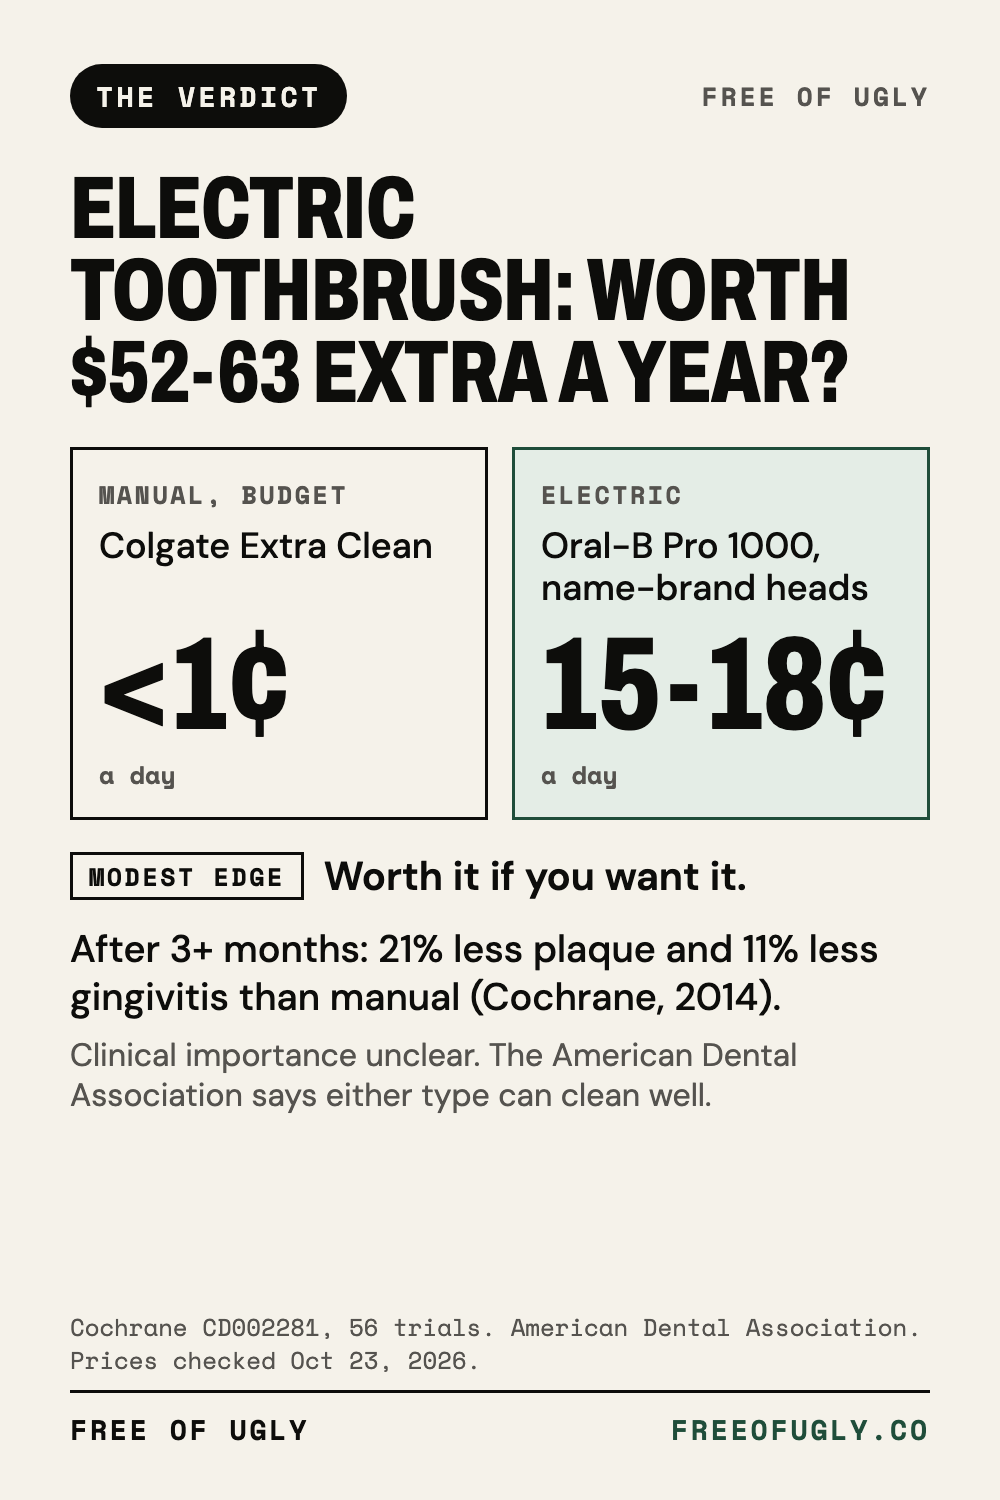
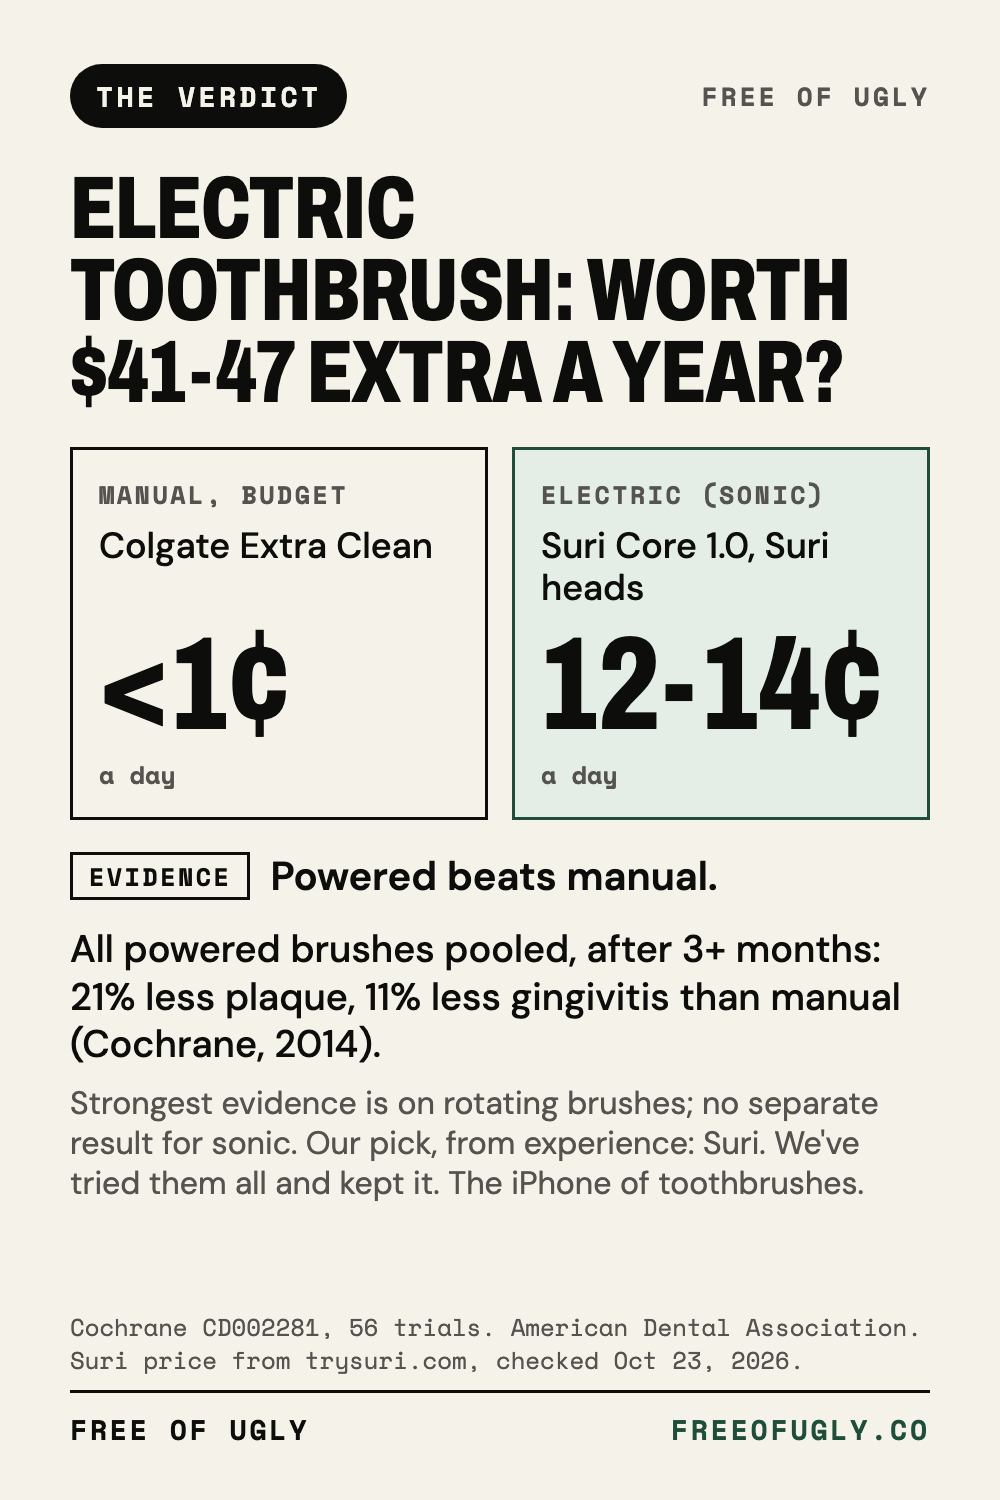
Toothbrush: Suri is our pick; evidence stated first
David 10-23: no Oral-B; Suri, from experience. Cochrane's strongest evidence is on rotating brushes, no separate sonic result, and the page says so.

Claude-Session: https://claude.ai/code/session_01F3MDmUyiEeadfmYawYHwjW

diff --git a/shelf/electric-toothbrush-worth-it.html b/shelf/electric-toothbrush-worth-it.html
@@ -1,4 +1,4 @@
-<!DOCTYPE html><html lang="en"><head><meta charset="utf-8"><meta name="viewport" content="width=device-width,initial-scale=1"><title>Electric toothbrush vs manual: worth about $63 a year? | Free of Ugly</title><meta name="description" content="A Cochrane review of 56 trials found powered brushes left 21% less plaque and 11% less gingivitis than manual after 3+ months. It costs about 15 to 18 cents a day against 1 cent for manual. Prices checked Oct 23, 2026."><link rel="canonical" href="https://freeofugly.co/shelf/electric-toothbrush-worth-it"><meta property="og:title" content="Electric toothbrush vs manual: worth about $63 a year?"><meta property="og:description" content="A Cochrane review of 56 trials found powered brushes left 21% less plaque and 11% less gingivitis than manual after 3+ months. It costs about 15 to 18 cents a day against 1 cent for manual. Prices checked Oct 23, 2026."><meta property="og:type" content="article"><meta property="og:image" content="https://freeofugly.co/shelf/img/electric-toothbrush-worth-it.png"><link rel="stylesheet" href="https://fonts.googleapis.com/css2?family=Archivo:wdth,wght@62..125,100..900&family=DM+Sans:wght@400;500;600&family=Space+Mono:wght@400;700&display=swap"><style>
+<!DOCTYPE html><html lang="en"><head><meta charset="utf-8"><meta name="viewport" content="width=device-width,initial-scale=1"><title>Electric toothbrush vs manual: worth an extra $41 to $47 a year? | Free of Ugly</title><meta name="description" content="A Cochrane review that included 56 trials found powered brushes left 21% less plaque and 11% less gingivitis than manual after more than 3 months. The largest body of its evidence is on rotating brushes; it reports no separate result for sonic ones. Our pick is Suri, a sonic brush, about 12 to 14 cents a day against under 1 cent for manual. Prices checked Oct 23, 2026."><link rel="canonical" href="https://freeofugly.co/shelf/electric-toothbrush-worth-it"><meta property="og:title" content="Electric toothbrush vs manual: worth an extra $41 to $47 a year?"><meta property="og:description" content="A Cochrane review that included 56 trials found powered brushes left 21% less plaque and 11% less gingivitis than manual after more than 3 months. The largest body of its evidence is on rotating brushes; it reports no separate result for sonic ones. Our pick is Suri, a sonic brush, about 12 to 14 cents a day against under 1 cent for manual. Prices checked Oct 23, 2026."><meta property="og:type" content="article"><meta property="og:image" content="https://freeofugly.co/shelf/img/electric-toothbrush-worth-it.png"><link rel="stylesheet" href="https://fonts.googleapis.com/css2?family=Archivo:wdth,wght@62..125,100..900&family=DM+Sans:wght@400;500;600&family=Space+Mono:wght@400;700&display=swap"><style>
 :root{--ink:#0D0D0B;--cream:#F5F2EA;--green:#1F4D3A;--grey:#55534F;--line:#0D0D0B;--tint:#E4EDE6;--red:#D93A2E}
 *{box-sizing:border-box;margin:0;padding:0}
 body{background:var(--cream);color:var(--ink);font:400 18px/1.6 'DM Sans',system-ui,sans-serif;-webkit-font-smoothing:antialiased}
@@ -27,4 +27,4 @@ th{background:var(--ink);color:var(--cream);font:700 12px 'Space Mono',monospace
 .list a.item:hover{background:var(--tint)}
 .list .f{font:700 12px 'Space Mono',monospace;letter-spacing:.1em;text-transform:uppercase;color:var(--green)}
 .list .t{font:600 20px/1.25 'DM Sans',sans-serif;margin-top:4px}
-</style></head><body><div class="wrap"><div class="bar"><a href="/">Free of Ugly</a><a href="/shelf/">The Shelf</a></div><span class="tag">The Verdict</span><h1>Electric toothbrush vs manual: worth about $63 a year?</h1><div class="verdict"><b>Short answer</b>Worth it, narrowly. Powered brushes beat manual ones on plaque and gum inflammation in the best evidence we found. The size of the benefit for your actual teeth is unclear, and a manual brush used well also works.</div><img class="pin" src="/shelf/img/electric-toothbrush-worth-it.png" alt="Cream card comparing a manual toothbrush at about 1 cent a day with an electric toothbrush at about 15 to 18 cents a day. Cochrane 2014: 21 percent less plaque, 11 percent less gingivitis after 3 months. Verdict: modest edge." width="380" height="570"><h2>The full answer</h2><p>The Cochrane review of powered versus manual brushing pooled 56 trials with 5,068 randomised people. Compared with manual brushing, powered brushes reduced plaque by about 11% at 1 to 3 months and about 21% after 3 months. Gingivitis (gum inflammation) fell by about 6% and about 11%. The review rates the evidence as moderate certainty.</p><p>The same review says plainly that &quot;the clinical importance of these findings remains unclear.&quot; The American Dental Association says both types of toothbrush can clean teeth effectively and thoroughly, and that choosing between them is a wash. So the honest framing is a measurable but modest edge, for roughly 14 to 17 cents a day more ($52 to $63 a year).</p><p>Free of Ugly&#x27;s opinion, not from the review: it is likelier to be worth it if you brush quickly or inconsistently, and easier to skip if your technique is already good.</p><h2>What this does not tell you</h2><ul><li>The review&#x27;s brush-type subgroups did not explain the differences between trials. The largest group (27 trials) tested rotation-oscillation heads. We priced an Oral-B model as one example; a different powered brush may perform differently and cost differently.</li><li>The review we read was published in 2014, with searches to January 2014. We did not check whether a later update exists.</li><li>Our cost model uses assumptions we chose, listed in the math below. Change them and the answer moves a little.</li></ul><h2>The math</h2><div class="tw"><table><tr><th>Line</th><th>Calculation</th><th>Per year</th></tr><tr><td>Electric handle: Oral-B Pro 1000, $49.99 (Target)</td><td>$49.99 over an assumed 3-year life</td><td>$16.66</td></tr><tr><td>Electric heads: Oral-B CrossAction, 2-pack $24.99 = $12.495 each (Target)</td><td>3 to 4 heads a year (replace every 3 to 4 months, American Dental Association)</td><td>$37.49 to $49.98</td></tr><tr><td>Electric total</td><td></td><td>$54.15 to $66.64  (15 to 18¢ a day)</td></tr><tr><td>Manual: Colgate Extra Clean, 6-pack $4.99 = $0.83 each (Target)</td><td>3 to 4 brushes a year</td><td>$2.50 to $3.33  (under 1¢ a day)</td></tr><tr><td>Difference</td><td></td><td>$51.65 to $63.31  (14 to 17¢ a day)</td></tr></table></div><p class="note">The American Dental Association&#x27;s three-to-four-month replacement advice is written for toothbrushes; we applied it to brush heads. A 3-year handle life is our assumption, and the handle ships with a first head, so year one is slightly overstated. We priced name-brand heads and the cheapest manual brush on the page; cheaper third-party heads exist but we did not price them.</p><h2>Sources</h2><ul class="src"><li><a href="https://www.cochrane.org/evidence/CD002281_powered-versus-manual-toothbrushing-oral-health" rel="noopener">Cochrane: Powered versus manual toothbrushing for oral health (CD002281), Yaacob et al. 2014</a><span class="n">56 trials, 5,068 participants; plaque and gingivitis figures; moderate certainty; clinical importance unclear. Accessed 2026-10-23.</span></li><li><a href="https://pubmed.ncbi.nlm.nih.gov/24934383/" rel="noopener">Yaacob et al. 2014, Cochrane Database Syst Rev (PubMed record)</a><span class="n">Same review, PubMed listing. Accessed 2026-10-23.</span></li><li><a href="https://www.mouthhealthy.org/all-topics-a-z/toothbrushes" rel="noopener">American Dental Association, MouthHealthy: Toothbrushes</a><span class="n">Replace every three to four months; manual and powered both clean effectively. Accessed 2026-10-23.</span></li><li><a href="https://www.target.com/s?searchTerm=oral-b+pro+1000+rechargeable+electric+toothbrush" rel="noopener">Target: Oral-B Pro 1000 and CrossAction heads, Colgate Extra Clean (search results)</a><span class="n">Prices read from Target search pages on Oct 23, 2026; store pricing can differ. Accessed 2026-10-23.</span></li></ul><div class="fine"><p>Prices checked 2026-10-23. Prices move.</p><p>Some links earn us a commission. We link the winner either way.</p><p>Information, not medical advice. If something here applies to you, ask a doctor or dermatologist.</p><p>Free of Ugly: science over grift. If it works we say why. If it does not we say that too.</p></div><p style="margin-top:20px"><a href="/shelf/">The Shelf: sources for every post</a> &middot; <a href="/">Free of Ugly home</a></p></div></body></html>
+</style></head><body><div class="wrap"><div class="bar"><a href="/">Free of Ugly</a><a href="/shelf/">The Shelf</a></div><span class="tag">The Verdict</span><h1>Electric toothbrush vs manual: worth an extra $41 to $47 a year?</h1><div class="verdict"><b>Short answer</b>Worth it, narrowly. Powered brushes as a group beat manual ones on plaque and gum inflammation, but the largest body of evidence is on rotating brushes, not the sonic Suri we use. The size of the benefit for your actual teeth is unclear, and a manual brush used well also works.</div><img class="pin" src="/shelf/img/electric-toothbrush-worth-it.png" alt="Cream card comparing a manual toothbrush at under 1 cent a day with a Suri sonic electric toothbrush at about 12 to 14 cents a day. Cochrane 2014, all powered brushes pooled: 21 percent less plaque, 11 percent less gingivitis after 3 months. The largest body of evidence is on rotating brushes. Our pick: Suri, from experience, not evidence." width="380" height="570"><h2>What the evidence says</h2><p>The Cochrane review of powered versus manual brushing included 56 trials; 51 trials with 4,624 people provided data. Compared with manual brushing, powered brushes as a group reduced plaque by about 11% at 1 to 3 months and about 21% after 3 months. Gingivitis (gum inflammation) fell by about 6% and about 11%. The review rates the evidence as moderate quality.</p><p>The same review says plainly that &quot;the clinical importance of these findings remains unclear.&quot; The American Dental Association says both types of toothbrush can clean teeth effectively and thoroughly. So the honest framing is a measurable but modest edge.</p><p>By brush type, the review&#x27;s abstract says: &quot;The greatest body of evidence was for rotation oscillation brushes which demonstrated a statistically significant reduction in plaque and gingivitis at both time points.&quot; It lists 27 trials of rotating brushes and 10 of side-to-side brushes, but reports no separate result for side-to-side brushes. Whether sonic designs fall in that group is not stated in the abstract. So the pooled result for all powered brushes is positive, and the clearest by-type result is for rotating brushes. We cannot say from the review that sonic brushes like Suri match them.</p><h2>Our pick: Suri</h2><p>This part is experience, not evidence. We&#x27;ve tried them all and replaced them three or four times before moving to a sonic brush with Suri. Suri is the one we kept: it feels like the iPhone of toothbrushes, a very high-end product.</p><p>Design facts, from Suri&#x27;s own site: the replacement heads are made from cornstarch with bristles made from castor oil, and used heads can be recycled free with a prepaid mailer. Neither was tested in the review.</p><h2>What this does not tell you</h2><ul><li>The review does not test any specific brand, so we cannot say how Suri performs against manual in particular.</li><li>The review we read was published in 2014, with searches to January 2014. We did not check whether a later update exists.</li><li>Our cost model uses assumptions we chose, listed in the math below. Change them and the answer moves a little.</li></ul><h2>The math</h2><div class="tw"><table><tr><th>Line</th><th>Calculation</th><th>Per year</th></tr><tr><td>Electric handle: Suri Core 1.0, $75 (trysuri.com)</td><td>$75 over an assumed 3-year life</td><td>$25.00</td></tr><tr><td>Electric heads: Suri replacement heads, 3-pack $18.99 = $6.33 each (trysuri.com)</td><td>3 to 4 heads a year (Suri&#x27;s site: dentists recommend changing heads every 3 months; American Dental Association: every 3 to 4 months)</td><td>$18.99 to $25.32</td></tr><tr><td>Electric total</td><td></td><td>$43.99 to $50.32  (12 to 14¢ a day)</td></tr><tr><td>Manual: Colgate Extra Clean, 6-pack $4.99 = $0.83 each (Target)</td><td>3 to 4 brushes a year</td><td>$2.50 to $3.33  (under 1¢ a day)</td></tr><tr><td>Difference</td><td></td><td>$41.49 to $46.99  (11 to 13¢ a day)</td></tr></table></div><p class="note">Prices checked Oct 23, 2026. The Core 1.0 is Suri&#x27;s cheaper brush (from $75 at trysuri.com); the Pro 2.0 costs more (about $135 at Target), which would raise the totals. A 3-year handle life is our assumption. We priced Suri&#x27;s own heads and the cheapest manual brush on the page. Subscription pricing on Suri&#x27;s site can lower the head cost.</p><h2>Sources</h2><ul class="src"><li><a href="https://www.cochrane.org/evidence/CD002281_powered-versus-manual-toothbrushing-oral-health" rel="noopener">Cochrane: Powered versus manual toothbrushing for oral health (CD002281), Yaacob et al. 2014</a><span class="n">56 trials; plaque and gingivitis figures; moderate quality evidence; greatest body of evidence for rotation oscillation brushes; clinical importance unclear. Accessed 2026-10-23.</span></li><li><a href="https://pubmed.ncbi.nlm.nih.gov/24934383/" rel="noopener">Yaacob et al. 2014, Cochrane Database Syst Rev (PubMed record)</a><span class="n">Same review, PubMed listing. Accessed 2026-10-23.</span></li><li><a href="https://www.mouthhealthy.org/all-topics-a-z/toothbrushes" rel="noopener">American Dental Association, MouthHealthy: Toothbrushes</a><span class="n">Replace every three to four months; manual and powered both clean effectively. Accessed 2026-10-23.</span></li><li><a href="https://www.trysuri.com/en-us/products/suri-sonic-replacement-toothbrush-heads" rel="noopener">Suri: Core 1.0 sonic toothbrush and replacement heads (trysuri.com), plus Target listings for Colgate Extra Clean</a><span class="n">Core from $75; 3-pack heads $18.99; cornstarch and castor-oil heads; free recycling by prepaid mailer; read Oct 23, 2026. Store pricing can differ. Accessed 2026-10-23.</span></li></ul><div class="fine"><p>Prices checked 2026-10-23. Prices move.</p><p>Some links earn us a commission. We link the winner either way.</p><p>Information, not medical advice. If something here applies to you, ask a doctor or dermatologist.</p><p>Free of Ugly: science over grift. If it works we say why. If it does not we say that too.</p></div><p style="margin-top:20px"><a href="/shelf/">The Shelf: sources for every post</a> &middot; <a href="/">Free of Ugly home</a></p></div></body></html>

diff --git a/shelf/index.html b/shelf/index.html
@@ -27,4 +27,4 @@ th{background:var(--ink);color:var(--cream);font:700 12px 'Space Mono',monospace
 .list a.item:hover{background:var(--tint)}
 .list .f{font:700 12px 'Space Mono',monospace;letter-spacing:.1em;text-transform:uppercase;color:var(--green)}
 .list .t{font:600 20px/1.25 'DM Sans',sans-serif;margin-top:4px}
-</style></head><body><div class="wrap"><div class="bar"><a href="/">Free of Ugly</a><a href="/shelf/">The Shelf</a></div><span class="tag">The Shelf</span><h1>Receipts for every pin</h1><p><b>The Shelf is where we keep the sources: the full answer, the math and the links behind every Free of Ugly post.</b></p><p>Each page below holds what we found, how we worked the numbers, and where you can check us.</p><div class="list"><a class="item" href="/shelf/creatine-which-kind-to-buy"><div class="f">The Verdict</div><div class="t">Creatine: which kind is worth buying</div></a><a class="item" href="/shelf/electric-toothbrush-worth-it"><div class="f">The Verdict</div><div class="t">Electric toothbrush vs manual: worth about $63 a year?</div></a><a class="item" href="/shelf/biotin-for-hair-worth-it"><div class="f">The Verdict</div><div class="t">Biotin for hair growth: skip it unless you are actually low</div></a><a class="item" href="/shelf/multivitamin-for-men-worth-it"><div class="f">The Verdict</div><div class="t">Multivitamin for men: what the evidence says and what it costs</div></a><a class="item" href="/shelf/rosemary-oil-hair-loss-study"><div class="f">What the Study Actually Found</div><div class="t">Rosemary oil for hair loss: what the study actually found</div></a><a class="item" href="/shelf/creatine-hair-loss-study"><div class="f">What the Study Actually Found</div><div class="t">Does creatine cause hair loss? What the studies actually found</div></a><a class="item" href="/shelf/skincare-routine-for-men-graded"><div class="f">The Graded Routine</div><div class="t">Skincare routine for men, graded by the evidence</div></a><a class="item" href="/shelf/sunscreen-cost-per-day"><div class="f">Price Per Use</div><div class="t">What sunscreen costs per day at the dose dermatologists recommend</div></a><a class="item" href="/shelf/sunscreen-label-decoder"><div class="f">Label Decoder</div><div class="t">Sunscreen for men: how to read the label</div></a><a class="item" href="/shelf/niacinamide-serum-for-men"><div class="f">Ingredient Card</div><div class="t">Niacinamide serum for men: what it does and what it doesn&#x27;t</div></a></div><div class="fine"><p>Prices checked 2026-10-23. Prices move.</p><p>Some links earn us a commission. We link the winner either way.</p><p>Information, not medical advice. If something here applies to you, ask a doctor or dermatologist.</p><p>Free of Ugly: science over grift. If it works we say why. If it does not we say that too.</p></div><p style="margin-top:20px"><a href="/">Free of Ugly home</a></p></div></body></html>
+</style></head><body><div class="wrap"><div class="bar"><a href="/">Free of Ugly</a><a href="/shelf/">The Shelf</a></div><span class="tag">The Shelf</span><h1>Receipts for every pin</h1><p><b>The Shelf is where we keep the sources: the full answer, the math and the links behind every Free of Ugly post.</b></p><p>Each page below holds what we found, how we worked the numbers, and where you can check us.</p><div class="list"><a class="item" href="/shelf/creatine-which-kind-to-buy"><div class="f">The Verdict</div><div class="t">Creatine: which kind is worth buying</div></a><a class="item" href="/shelf/electric-toothbrush-worth-it"><div class="f">The Verdict</div><div class="t">Electric toothbrush vs manual: worth an extra $41 to $47 a year?</div></a><a class="item" href="/shelf/biotin-for-hair-worth-it"><div class="f">The Verdict</div><div class="t">Biotin for hair growth: skip it unless you are actually low</div></a><a class="item" href="/shelf/multivitamin-for-men-worth-it"><div class="f">The Verdict</div><div class="t">Multivitamin for men: what the evidence says and what it costs</div></a><a class="item" href="/shelf/rosemary-oil-hair-loss-study"><div class="f">What the Study Actually Found</div><div class="t">Rosemary oil for hair loss: what the study actually found</div></a><a class="item" href="/shelf/creatine-hair-loss-study"><div class="f">What the Study Actually Found</div><div class="t">Does creatine cause hair loss? What the studies actually found</div></a><a class="item" href="/shelf/skincare-routine-for-men-graded"><div class="f">The Graded Routine</div><div class="t">Skincare routine for men, graded by the evidence</div></a><a class="item" href="/shelf/sunscreen-cost-per-day"><div class="f">Price Per Use</div><div class="t">What sunscreen costs per day at the dose dermatologists recommend</div></a><a class="item" href="/shelf/sunscreen-label-decoder"><div class="f">Label Decoder</div><div class="t">Sunscreen for men: how to read the label</div></a><a class="item" href="/shelf/niacinamide-serum-for-men"><div class="f">Ingredient Card</div><div class="t">Niacinamide serum for men: what it does and what it doesn&#x27;t</div></a></div><div class="fine"><p>Prices checked 2026-10-23. Prices move.</p><p>Some links earn us a commission. We link the winner either way.</p><p>Information, not medical advice. If something here applies to you, ask a doctor or dermatologist.</p><p>Free of Ugly: science over grift. If it works we say why. If it does not we say that too.</p></div><p style="margin-top:20px"><a href="/">Free of Ugly home</a></p></div></body></html>

diff --git a/home.html b/home.html
@@ -145,7 +145,7 @@
     <p class="shelf-sub">The sources, the math and the full answer behind every Free of Ugly post.</p>
     <ul class="cards">
       <li><a class="card" href="/shelf/creatine-which-kind-to-buy"><img src="/shelf/img/creatine-which-kind-to-buy.png" alt="Cream card titled Creatine: what&#x27;s worth buying. Plain monohydrate, worth it, 34 cents a day. Tested for banned substances, worth it if you are drug-tested, 49 cents a day. Kre-Alkalyn, no edge." width="1000" height="1500" loading="lazy" decoding="async"><span class="lab">The Verdict</span><span class="t">Creatine: which kind is worth buying</span></a></li>
-      <li><a class="card" href="/shelf/electric-toothbrush-worth-it"><img src="/shelf/img/electric-toothbrush-worth-it.png" alt="Cream card comparing a manual toothbrush at about 1 cent a day with an electric toothbrush at about 15 to 18 cents a day. Cochrane 2014: 21 percent less plaque, 11 percent less gingivitis after 3 months. Verdict: modest edge." width="1000" height="1500" loading="lazy" decoding="async"><span class="lab">The Verdict</span><span class="t">Electric toothbrush vs manual: worth about $63 a year?</span></a></li>
+      <li><a class="card" href="/shelf/electric-toothbrush-worth-it"><img src="/shelf/img/electric-toothbrush-worth-it.png" alt="Cream card comparing a manual toothbrush at under 1 cent a day with a Suri sonic electric toothbrush at about 12 to 14 cents a day. Cochrane 2014, all powered brushes pooled: 21 percent less plaque, 11 percent less gingivitis after 3 months. The largest body of evidence is on rotating brushes. Our pick: Suri, from experience, not evidence." width="1000" height="1500" loading="lazy" decoding="async"><span class="lab">The Verdict</span><span class="t">Electric toothbrush vs manual: worth about $63 a year?</span></a></li>
       <li><a class="card" href="/shelf/biotin-for-hair-worth-it"><img src="/shelf/img/biotin-for-hair-worth-it.png" alt="Cream card titled Biotin for hair growth with a red SKIP mark. A review found 18 cases and all had an underlying cause. The US Food and Drug Administration has received reports that biotin caused falsely low troponin results. About 6 cents a day." width="1000" height="1500" loading="lazy" decoding="async"><span class="lab">The Verdict</span><span class="t">Biotin for hair growth: skip it unless you are actually low</span></a></li>
       <li><a class="card" href="/shelf/multivitamin-for-men-worth-it"><img src="/shelf/img/multivitamin-for-men-worth-it.png" alt="Cream card titled Multivitamin for men. Preventing heart disease or cancer: unproven per the US Preventive Services Task Force. Centrum Men at 10 cents a day: fine if you want one. Thorne Basic Nutrients at $1.33 a day, tested for banned substances per Thorne." width="1000" height="1500" loading="lazy" decoding="async"><span class="lab">The Verdict</span><span class="t">Multivitamin for men: what the evidence says and what it costs</span></a></li>
       <li><a class="card" href="/shelf/rosemary-oil-hair-loss-study"><img src="/shelf/img/rosemary-oil-hair-loss-study.png" alt="Cream card titled As good as minoxidil, read the study. 100 patients, 6 months, rosemary oil versus 2 percent minoxidil, no difference at month 3 or 6, no placebo group. Verdict: one small trial, promising not proven." width="1000" height="1500" loading="lazy" decoding="async"><span class="lab">What the Study Actually Found</span><span class="t">Rosemary oil for hair loss: what the study actually found</span></a></li>
